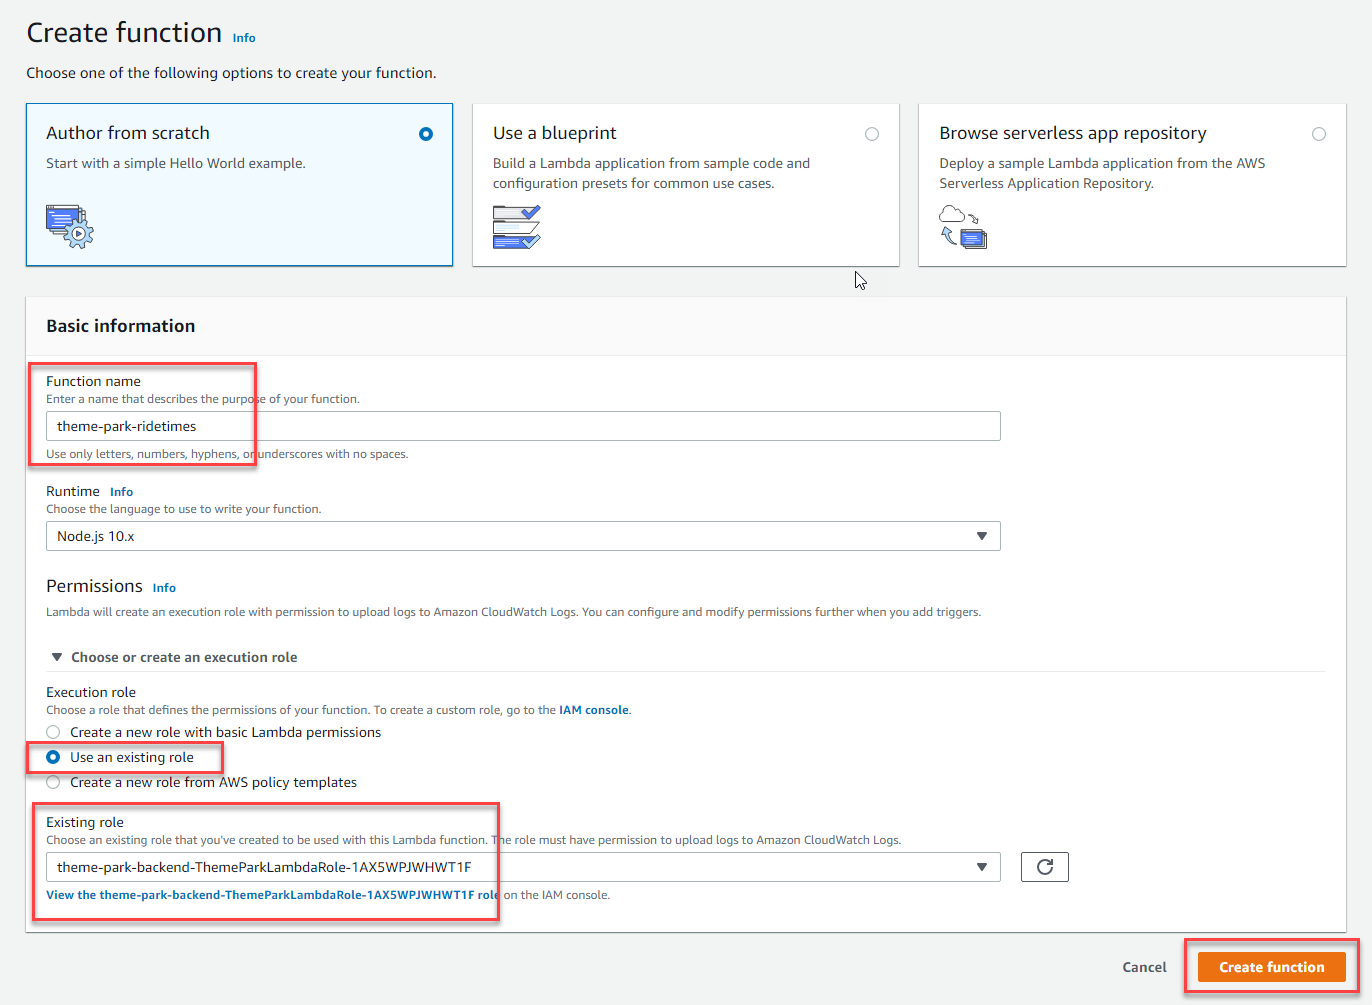
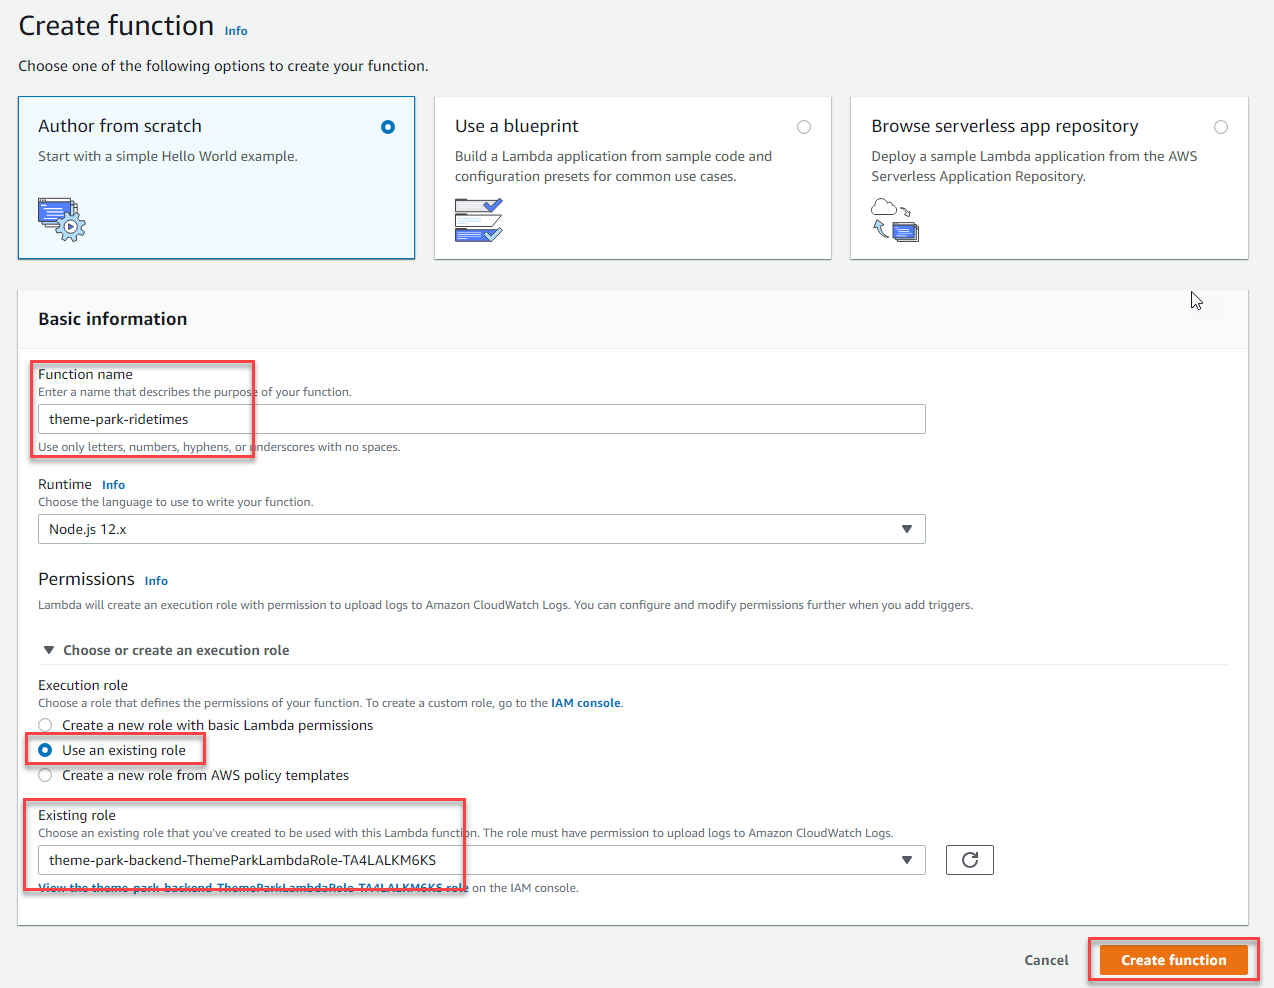
Minor edits

diff --git a/2-realtime/README.md b/2-realtime/README.md
@@ -29,7 +29,7 @@ The theme park uses a proprietary system called the **Flow & Traffic Controller*
 
 1. Go to the Lambda console - from the AWS Management Console, select **Services** then select **Lambda** under *Compute*. **Make sure your region is correct.** You will see some Lambda functions that SAM has already deployed.
 
-2. Select **Create function**. Ensure **Author from scratch** is selected. Enter `theme-park-ridetimes` for *Function name* and ensure `Node.js 10.x` is selected under *Runtime*. 
+2. Select **Create function**. Ensure **Author from scratch** is selected. Enter `theme-park-ridetimes` for *Function name* and ensure `Node.js 12.x` is selected under *Runtime*. 
 
 3. Open the *Choose or create an execution role* section:
 -  Select the *Use an existing role* radio button. 
@@ -55,9 +55,11 @@ US Ohio - us-east-2 | ```arn:aws:sns:us-east-2:526237104669:theme-park-FAT-contr
 
 ![Module 2 - SNS completed](../images/2-realtime-lambda3.png)
 
-6. Back in the Cloud9 browser tab, in the left directory panel navigate navigate to `theme-park-backend\2-realtime\app.js`. Double click to open the file and copy the  contents onto the clipboard. Go back to the browser tab with the Lambda console. In the *Function Code* card, click on the `index.js` file paste the file contents in the clipboard into the `index.js` file, overwriting the existing content.  
+6. Back in the Cloud9 browser tab, in the left directory panel navigate navigate to `aws-serverless-workshop-innovator-island\2-realtime\app.js`. Double click to open the file and copy the contents onto the clipboard. 
 
-7. On the top right of the window, **Select *Save* to save the changes.**
+7. Go back to the browser tab with the Lambda console. In the *Function Code* card, click on the `index.js` file paste the file contents in the clipboard into the `index.js` file, overwriting the existing content.  
+
+8. On the top right of the window, **Select *Save* to save the changes.**
 
 This Lambda function code reads the latest message from the SNS topic, writes it to DynamoDB and then pushes the message to the frontend application via an IoT topic.
 
@@ -135,7 +137,7 @@ This file contains a JSON configuration for the frontend. The file is separated 
 
 ![Module 2 - Front end config](../images/2-realtime-frontend1.png)
 
-8. **Save the file.**__
+8. **Save the file.**
 
 ### Push to CodeCommit and deploy via Amplify
 
